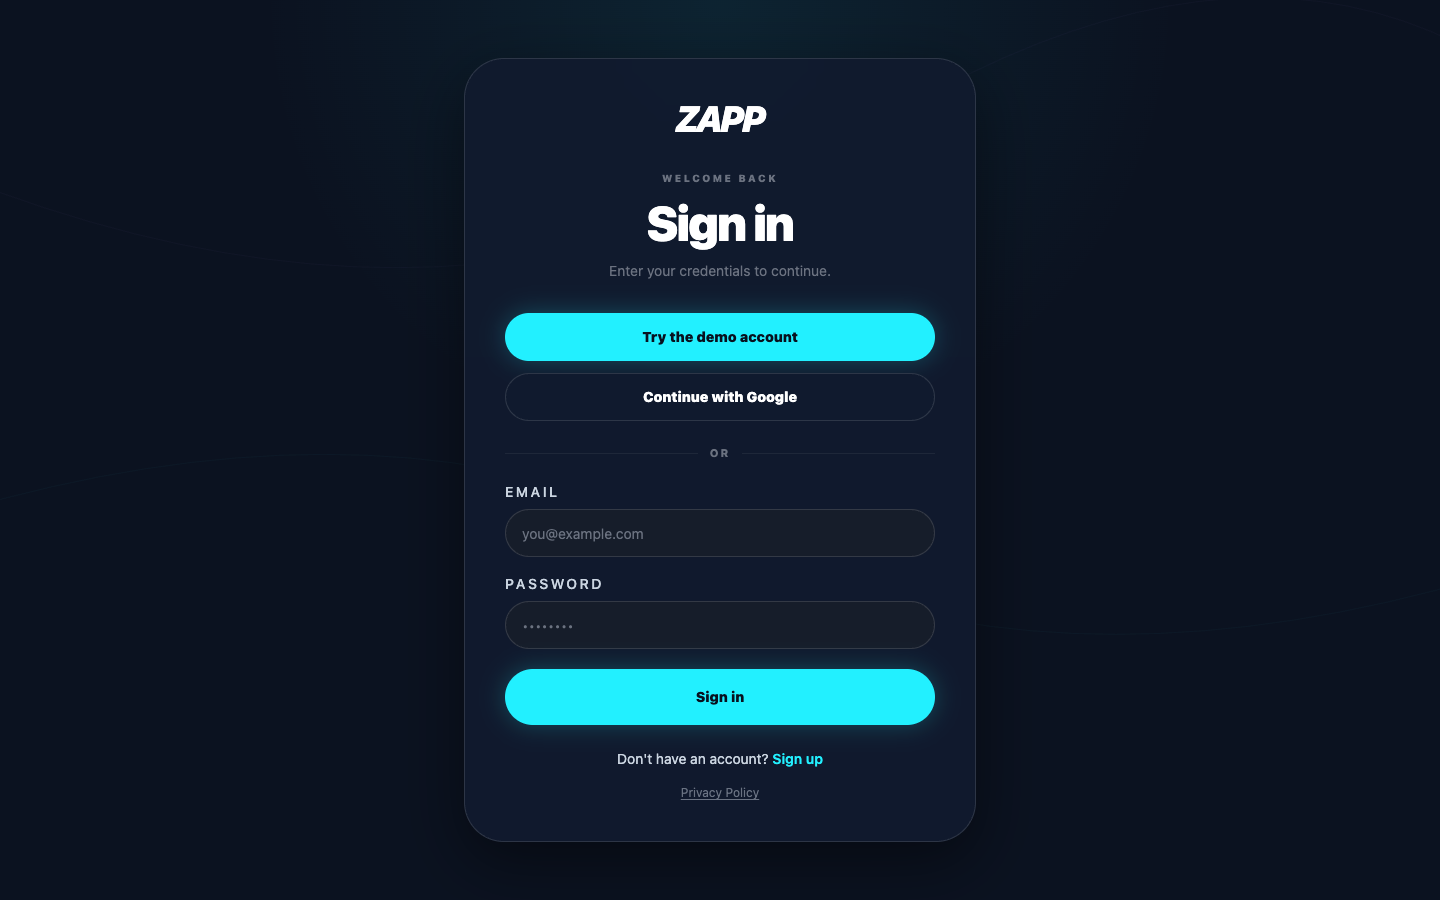
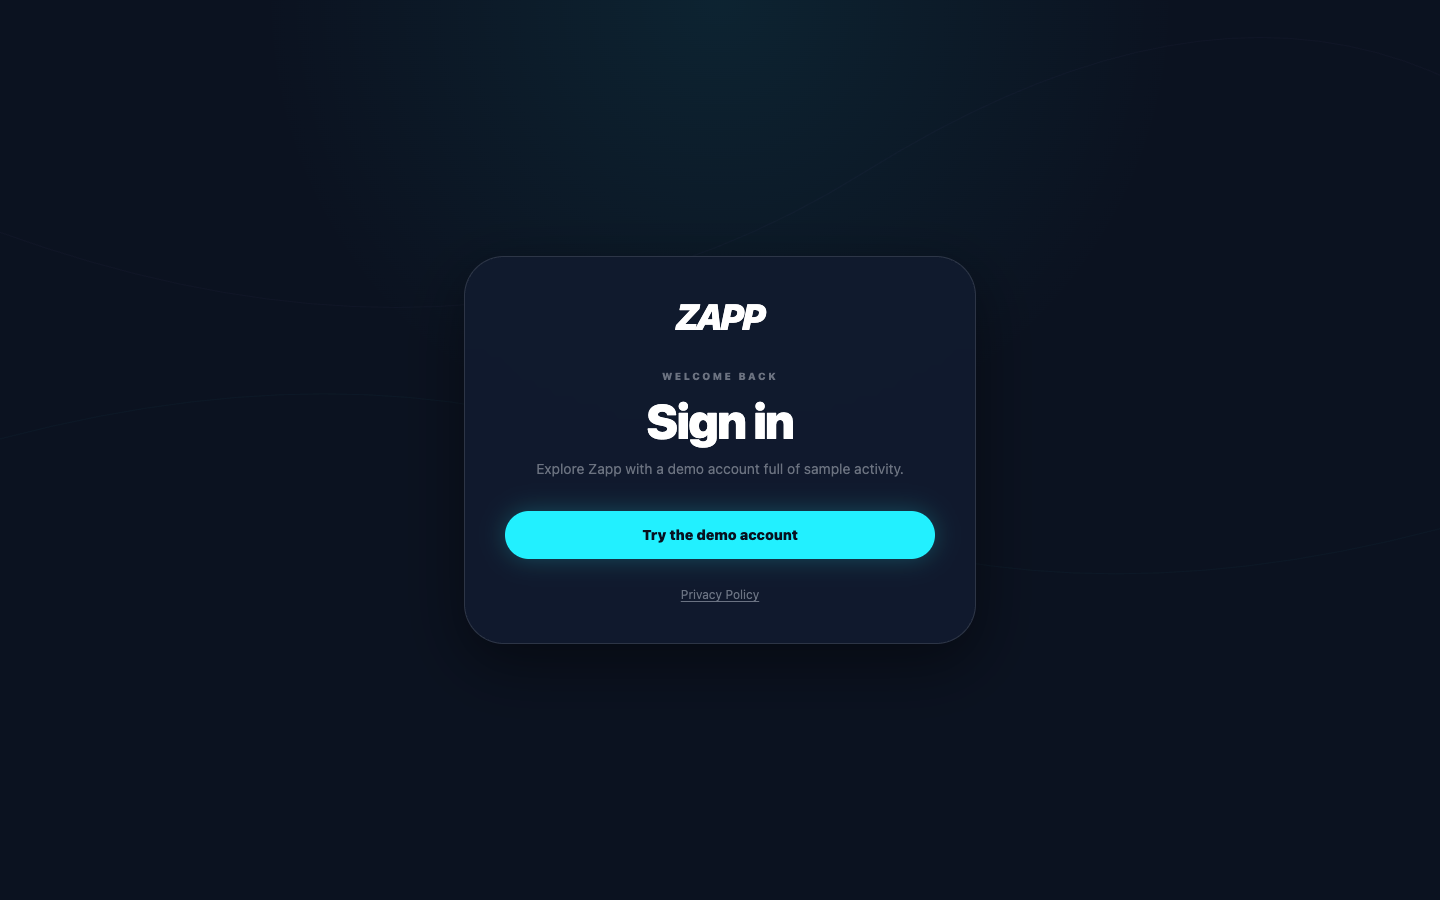
Polish sign-in and rate limits found in the end-to-end walkthrough
- The demo-login status check no longer counts against the login rate
  limit, so reloading /login can't hide the demo button; sign-in POSTs
  are still limited.
- The login page learns which sign-in options the environment supports:
  without Supabase it shows the demo account only (no Google/email
  options that would fail), and it reserves space while loading so the
  buttons don't shift under the cursor.
- Full transaction-list fetches use the API's max page size (3 requests
  instead of ~10 for the demo account).
- Development uses generous general API rate limits (React StrictMode
  doubles requests); production defaults are unchanged.
- Screenshots and test counts refreshed.

diff --git a/frontend/src/features/auth/__tests__/LoginPage.test.tsx b/frontend/src/features/auth/__tests__/LoginPage.test.tsx
@@ -98,6 +98,18 @@ describe("LoginPage", () => {
     expect(screen.queryByRole("button", { name: /try the demo account/i })).not.toBeInTheDocument();
   });
 
+  it("shows only the demo account when password sign-in isn't configured", async () => {
+    vi.mocked(DemoLoginAPI.status).mockResolvedValueOnce({ enabled: true, password_login_configured: false });
+    render(
+      <MemoryRouter>
+        <LoginPage />
+      </MemoryRouter>
+    );
+    expect(await screen.findByRole("button", { name: /try the demo account/i })).toBeInTheDocument();
+    expect(screen.queryByRole("button", { name: /continue with google/i })).not.toBeInTheDocument();
+    expect(screen.queryByLabelText(/^Email$/i)).not.toBeInTheDocument();
+  });
+
   it("navigates to the route returned by login", async () => {
     const user = userEvent.setup();
     mockLogin.mockResolvedValue({ ok: true, nextRoute: "/" });
@@ -108,7 +120,7 @@ describe("LoginPage", () => {
       </MemoryRouter>
     );
 
-    await user.type(screen.getByLabelText(/^Email$/i), "user@example.com");
+    await user.type(await screen.findByLabelText(/^Email$/i), "user@example.com");
     await user.type(screen.getByLabelText(/^Password$/i), "secret12");
     await user.click(screen.getByRole("button", { name: /sign in/i }));
 
@@ -129,7 +141,7 @@ describe("LoginPage", () => {
       </MemoryRouter>
     );
 
-    await user.type(screen.getByLabelText(/^Email$/i), "user@example.com");
+    await user.type(await screen.findByLabelText(/^Email$/i), "user@example.com");
     await user.type(screen.getByLabelText(/^Password$/i), "secret12");
     await user.click(screen.getByRole("button", { name: /sign in/i }));
 
@@ -148,7 +160,7 @@ describe("LoginPage", () => {
       </MemoryRouter>
     );
 
-    await user.type(screen.getByLabelText(/^Email$/i), "user@example.com");
+    await user.type(await screen.findByLabelText(/^Email$/i), "user@example.com");
     await user.type(screen.getByLabelText(/^Password$/i), "wrong-password");
     await user.click(screen.getByRole("button", { name: /sign in/i }));
 
@@ -184,7 +196,7 @@ describe("LoginPage", () => {
       </MemoryRouter>
     );
 
-    await user.click(screen.getByRole("button", { name: /continue with google/i }));
+    await user.click(await screen.findByRole("button", { name: /continue with google/i }));
 
     await waitFor(() => {
       expect(fetchMock).toHaveBeenCalledWith("http://127.0.0.1:8000/api/auth/oauth/start/", {
@@ -220,7 +232,7 @@ describe("LoginPage", () => {
       </MemoryRouter>
     );
 
-    await user.click(screen.getByRole("button", { name: /continue with google/i }));
+    await user.click(await screen.findByRole("button", { name: /continue with google/i }));
 
     await waitFor(() => {
       expect(toast.error).toHaveBeenCalledWith("SUPABASE_OAUTH_REDIRECT_URI is not configured.");
@@ -256,7 +268,7 @@ describe("LoginPage", () => {
       </MemoryRouter>
     );
 
-    await user.click(screen.getByRole("button", { name: /continue with google/i }));
+    await user.click(await screen.findByRole("button", { name: /continue with google/i }));
 
     await waitFor(() => {
       expect(toast.error).toHaveBeenCalledWith(

diff --git a/frontend/src/features/auth/pages/LoginPage.tsx b/frontend/src/features/auth/pages/LoginPage.tsx
@@ -56,18 +56,24 @@ export function LoginPage() {
   const [email, setEmail] = React.useState("");
   const [password, setPassword] = React.useState("");
   const [loading, setLoading] = React.useState(false);
-  const [demoAvailable, setDemoAvailable] = React.useState(false);
+  // Which sign-in options this environment supports (null while loading). The demo
+  // account is development-only; email/Google need Supabase to be configured.
+  const [options, setOptions] = React.useState<{ demo: boolean; password: boolean } | null>(null);
 
-  // The backend decides whether the demo account is offered (development only).
   React.useEffect(() => {
     let active = true;
     DemoLoginAPI.status()
-      .then((res) => active && setDemoAvailable(res?.enabled === true))
-      .catch(() => {});
+      .then((res) => {
+        if (active) setOptions({ demo: res?.enabled === true, password: res?.password_login_configured !== false });
+      })
+      .catch(() => {
+        if (active) setOptions({ demo: false, password: true });
+      });
     return () => {
       active = false;
     };
   }, []);
+  const demoOnly = options?.demo === true && !options.password;
 
   React.useEffect(() => {
     if (isAuthReady && isAuthenticated) navigate(nextRoute, { replace: true });
@@ -151,12 +157,18 @@ export function LoginPage() {
             align="center"
             eyebrow="Welcome back"
             title="Sign in"
-            description="Enter your credentials to continue."
+            description={
+              demoOnly
+                ? "Explore Zapp with a demo account full of sample activity."
+                : "Enter your credentials to continue."
+            }
             titleClassName="app-page-title text-[2.5rem] sm:text-[3rem]"
             className="mb-8"
           />
 
-            {demoAvailable && (
+            {options === null && <div className="min-h-[18rem]" aria-busy="true" />}
+
+            {options?.demo && (
               <AppButton
                 type="button"
                 size="md"
@@ -168,6 +180,8 @@ export function LoginPage() {
               </AppButton>
             )}
 
+            {options?.password && (
+            <>
             <AppButton
               type="button"
               variant="outline"
@@ -222,6 +236,8 @@ export function LoginPage() {
               Sign up
             </NavLink>
           </p>
+            </>
+            )}
 
           <p className="mt-4 text-center text-xs text-gray-600">
             <PrivacyPolicyLink className="text-gray-500 hover:text-gray-400" />

diff --git a/frontend/src/api/transactions.api.ts b/frontend/src/api/transactions.api.ts
@@ -89,6 +89,9 @@ function toRelativeCursorPath(url: string): string {
   }
 }
 
+/** Matches TransactionCursorPagination.max_page_size on the backend. */
+const FULL_LIST_PAGE_SIZE = 100;
+
 export const TransactionsAPI = {
   recent: (limit = 6) => apiRequest<Transaction[]>(`/api/transactions/?limit=${limit}`, { requireAuth: true }),
   /** Fetch transactions recommended for feedback by the ML pipeline. */
@@ -103,7 +106,9 @@ export const TransactionsAPI = {
   list: async (
     params?: { category?: string; direction?: string; date_from?: string; date_to?: string; limit?: number; signal?: AbortSignal; }
   ): Promise<Transaction[]> => {
-    let path = `/api/transactions/${buildTransactionQuery(params)}`;
+    // Walking the whole timeline: use the server's max page size to keep request count low.
+    const query = params?.limit ? params : { ...params, page_size: FULL_LIST_PAGE_SIZE };
+    let path = `/api/transactions/${buildTransactionQuery(query)}`;
     const all: Transaction[] = [];
     // Guard bounds runaway paging if a backend ever returns a self-referential cursor.
     for (let guard = 0; guard < 10000; guard += 1) {

diff --git a/frontend/src/api/__tests__/transactions.test.ts b/frontend/src/api/__tests__/transactions.test.ts
@@ -71,7 +71,7 @@ describe("transactions.api pagination", () => {
     vi.mocked(apiRequest).mockResolvedValueOnce({ results: [], next: null, previous: null });
     await TransactionsAPI.list({ category: "groceries", direction: "spend", date_from: "2026-01-01" });
     expect(apiRequest).toHaveBeenCalledWith(
-      "/api/transactions/?category=groceries&direction=spend&date_from=2026-01-01",
+      "/api/transactions/?category=groceries&direction=spend&date_from=2026-01-01&page_size=100",
       expect.objectContaining({ requireAuth: true })
     );
   });

diff --git a/frontend/src/api/users.api.ts b/frontend/src/api/users.api.ts
@@ -105,5 +105,6 @@ export const PreferencesAPI = {
 
 /** Local demo login. The backend only enables it in development (DEBUG + DEMO_LOGIN_ENABLED). */
 export const DemoLoginAPI = {
-  status: () => apiRequest<{ enabled: boolean }>("/api/auth/demo-login/"),
+  status: () =>
+    apiRequest<{ enabled: boolean; password_login_configured?: boolean }>("/api/auth/demo-login/"),
 };

diff --git a/backend/apps/users/tests_demo_login.py b/backend/apps/users/tests_demo_login.py
@@ -19,7 +19,13 @@ class DemoLoginTests(TestCase):
     def test_get_reports_enabled(self):
         resp = self.client.get(DEMO_URL)
         self.assertEqual(resp.status_code, 200)
-        self.assertEqual(resp.json(), {"enabled": True})
+        self.assertTrue(resp.json()["enabled"])
+
+    @override_settings(SUPABASE_URL="")
+    def test_get_reports_password_login_availability(self):
+        self.assertFalse(self.client.get(DEMO_URL).json()["password_login_configured"])
+        with self.settings(SUPABASE_URL="https://example.supabase.co"):
+            self.assertTrue(self.client.get(DEMO_URL).json()["password_login_configured"])
 
     def test_post_issues_fully_verified_session(self):
         resp = self.client.post(DEMO_URL)
@@ -33,6 +39,15 @@ class DemoLoginTests(TestCase):
         self.assertEqual(me.status_code, 200)
         self.assertEqual(me.json()["username"], "demo_user_0")
         self.assertFalse(me.json()["mfa_pending"])
+
+    def test_status_checks_do_not_consume_the_login_limit(self):
+        for _ in range(10):
+            self.assertEqual(self.client.get(DEMO_URL).status_code, 200)
+        self.assertEqual(self.client.post(DEMO_URL).status_code, 200)
+
+    def test_sign_in_attempts_are_rate_limited(self):
+        codes = [self.client.post(DEMO_URL).status_code for _ in range(8)]
+        self.assertIn(429, codes)
 
     def test_mfa_snapshot_reports_session_assurance(self):
         self.client.post(DEMO_URL)
@@ -54,7 +69,7 @@ class DemoLoginTests(TestCase):
 
     @override_settings(DEBUG=False)
     def test_disabled_outside_debug(self):
-        self.assertEqual(self.client.get(DEMO_URL).json(), {"enabled": False})
+        self.assertFalse(self.client.get(DEMO_URL).json()["enabled"])
         resp = self.client.post(DEMO_URL)
         self.assertEqual(resp.status_code, 404)
         self.assertEqual(self.client.get("/api/auth/me/").status_code, 403)

diff --git a/backend/apps/users/auth_views.py b/backend/apps/users/auth_views.py
@@ -547,10 +547,19 @@ class DemoLoginView(APIView):
     """
 
     permission_classes = [AllowAny]
-    throttle_classes = [LoginRateThrottle]
+
+    def get_throttles(self):
+        # Only sign-in attempts count against the login limit; the GET status check
+        # runs on every /login page load and must not exhaust it.
+        return [LoginRateThrottle()] if self.request.method == "POST" else super().get_throttles()
 
     def get(self, request):
-        return Response({"enabled": demo_login_enabled()})
+        # Also tells the login page whether Supabase-backed email/Google sign-in is
+        # configured, so it can offer only the options that work in this environment.
+        return Response({
+            "enabled": demo_login_enabled(),
+            "password_login_configured": bool((getattr(settings, "SUPABASE_URL", None) or "").strip()),
+        })
 
     def post(self, request):
         if not demo_login_enabled():

diff --git a/backend/config/settings/development.py b/backend/config/settings/development.py
@@ -22,6 +22,10 @@ BANKING_STEP_UP_REQUIRED = env_bool("BANKING_STEP_UP_REQUIRED", False)
 AUTH_REQUIRE_AAL2 = env_bool("AUTH_REQUIRE_AAL2", True)
 ALLOW_DEV_HEADER_AUTH = True
 DEMO_LOGIN_ENABLED = env_bool("DEMO_LOGIN_ENABLED", True)
+# Dev servers double requests (React StrictMode) and get reloaded constantly; keep the
+# general API limits generous locally. Production keeps the base default.
+REST_FRAMEWORK["DEFAULT_THROTTLE_RATES"]["anon"] = os.getenv("API_THROTTLE_ANON_RATE") or "300/minute"
+REST_FRAMEWORK["DEFAULT_THROTTLE_RATES"]["user"] = os.getenv("API_THROTTLE_USER_RATE") or "600/minute"
 
 # Banking: relaxed defaults for local dev. Set in .env to mirror production when testing Plaid:
 #   BANKING_REQUIRE_MFA=true

diff --git a/README.md b/README.md
@@ -31,7 +31,7 @@ is worth it **before** you buy, then learns from how you actually feel about wha
   - Signing in requires MFA (AAL2).
   - Sensitive fields are encrypted at rest with Fernet keys that can be rotated.
 - **Production-quality engineering.**
-  - About 585 automated tests: 401 backend and 184 frontend.
+  - About 590 automated tests: 404 backend and 185 frontend.
   - An end-to-end smoke test that runs in CI on every PR.
   - One-command local setup with realistic synthetic data.
 
@@ -88,7 +88,8 @@ computed from your own transactions and scores. Example questions:
 
 ### Sign-in and early access
 
-Email/password or Google sign-in with MFA, plus a one-click demo account for local use.
+Locally, sign-in is one click with the demo account. With Supabase configured, email/password
+and Google sign-in (with MFA) appear as well.
 A mobile-friendly waitlist page collects early-access signups.
 
 | Sign in | Waitlist (mobile) |
@@ -188,8 +189,8 @@ reference is [`backend/.env.example`](backend/.env.example).
 ## Testing and CI
 
 ```bash
-cd backend && .venv/bin/python manage.py test   # 401 tests
-cd frontend && npm run typecheck && npm run test:run   # strict TS + 184 tests
+cd backend && .venv/bin/python manage.py test   # 404 tests
+cd frontend && npm run typecheck && npm run test:run   # strict TS + 185 tests
 ./scripts/smoke-test.sh                          # end-to-end checks against ./scripts/dev.sh
 ```
 
